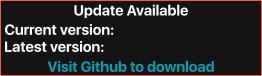
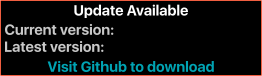
Bug fixes and improvements *Fixed bug in background image *Added update notification *Updated README.md to include numpy and packaging modules

Changed region(s): [[0.0, 0.3158, 0.458, 0.4737], [0.0, 0.5263, 0.3969, 0.6842]]

diff --git a/main.py b/main.py
@@ -1964,13 +1964,12 @@ class WeatherFlowPiConsole(App):
 		header = {'Accept': 'application/vnd.github.v3+json'}
 		Template = 'https://api.github.com/repos/{}/{}/releases/latest'
 		URL = Template.format('peted-davis','WeatherFlow_PiConsole')
-		#Data = requests.get(URL,headers=header).json()
-		self.System['LatestVer'] = 'v1.7' #Data['tag_name']
+		Data = requests.get(URL,headers=header).json()
+		self.System['LatestVer'] = Data['tag_name']
 
 		# If current version and latest version do not match, open update 
 		# notification
 		if version.parse(self.System['Version']) < version.parse(self.System['LatestVer']):
-			print('Yes')
 			
 			# Check if update notification is already open. Close if required
 			if 'UpdateNotif' in self.System:
@@ -1979,25 +1978,13 @@ class WeatherFlowPiConsole(App):
 			# Open update notification
 			self.System['UpdateNotif'] = Version()
 			self.System['UpdateNotif'].open()
-		
-		else:
-			pass
 
-		
-		
-		
-
-		# Determine time until next version check
-		#Tz = self.System['tz']
-		#Now = datetime.now(pytz.utc).astimezone(Tz)
-		#Next = Tz.localize(datetime.combine(date.today()+timedelta(days=1),time(0,0,0)))
-		
 		# Schedule next Version Check
-		#Seconds = (Next - Now).total_seconds()
-		Clock.schedule_once(self.CheckVersion,500)
-
-
-	
+		Tz = self.System['tz']
+		Now = datetime.now(pytz.utc).astimezone(Tz)
+		Next = Tz.localize(datetime.combine(date.today()+timedelta(days=1),time(0,0,0)))
+		Clock.schedule_once(self.CheckVersion,(Next - Now).total_seconds())
+		
 # ==============================================================================
 # DEFINE 'WeatherFlowPiConsoleScreen' SCREEN MANAGER
 # ==============================================================================			

diff --git a/README.md b/README.md
@@ -129,7 +129,7 @@ y (confirms you want to install dependencies)
 ### Step 5: Install required Python modules
 
 ```
-sudo python3 -m pip install autobahn[twisted] pytz pyasn1-modules service_identity geopy ephem Cython
+sudo python3 -m pip install autobahn[twisted] pytz pyasn1-modules service_identity geopy ephem Cython numpy packaging
 ```
 
 ### Step 6: Install Kivy Python library - this make take some time
